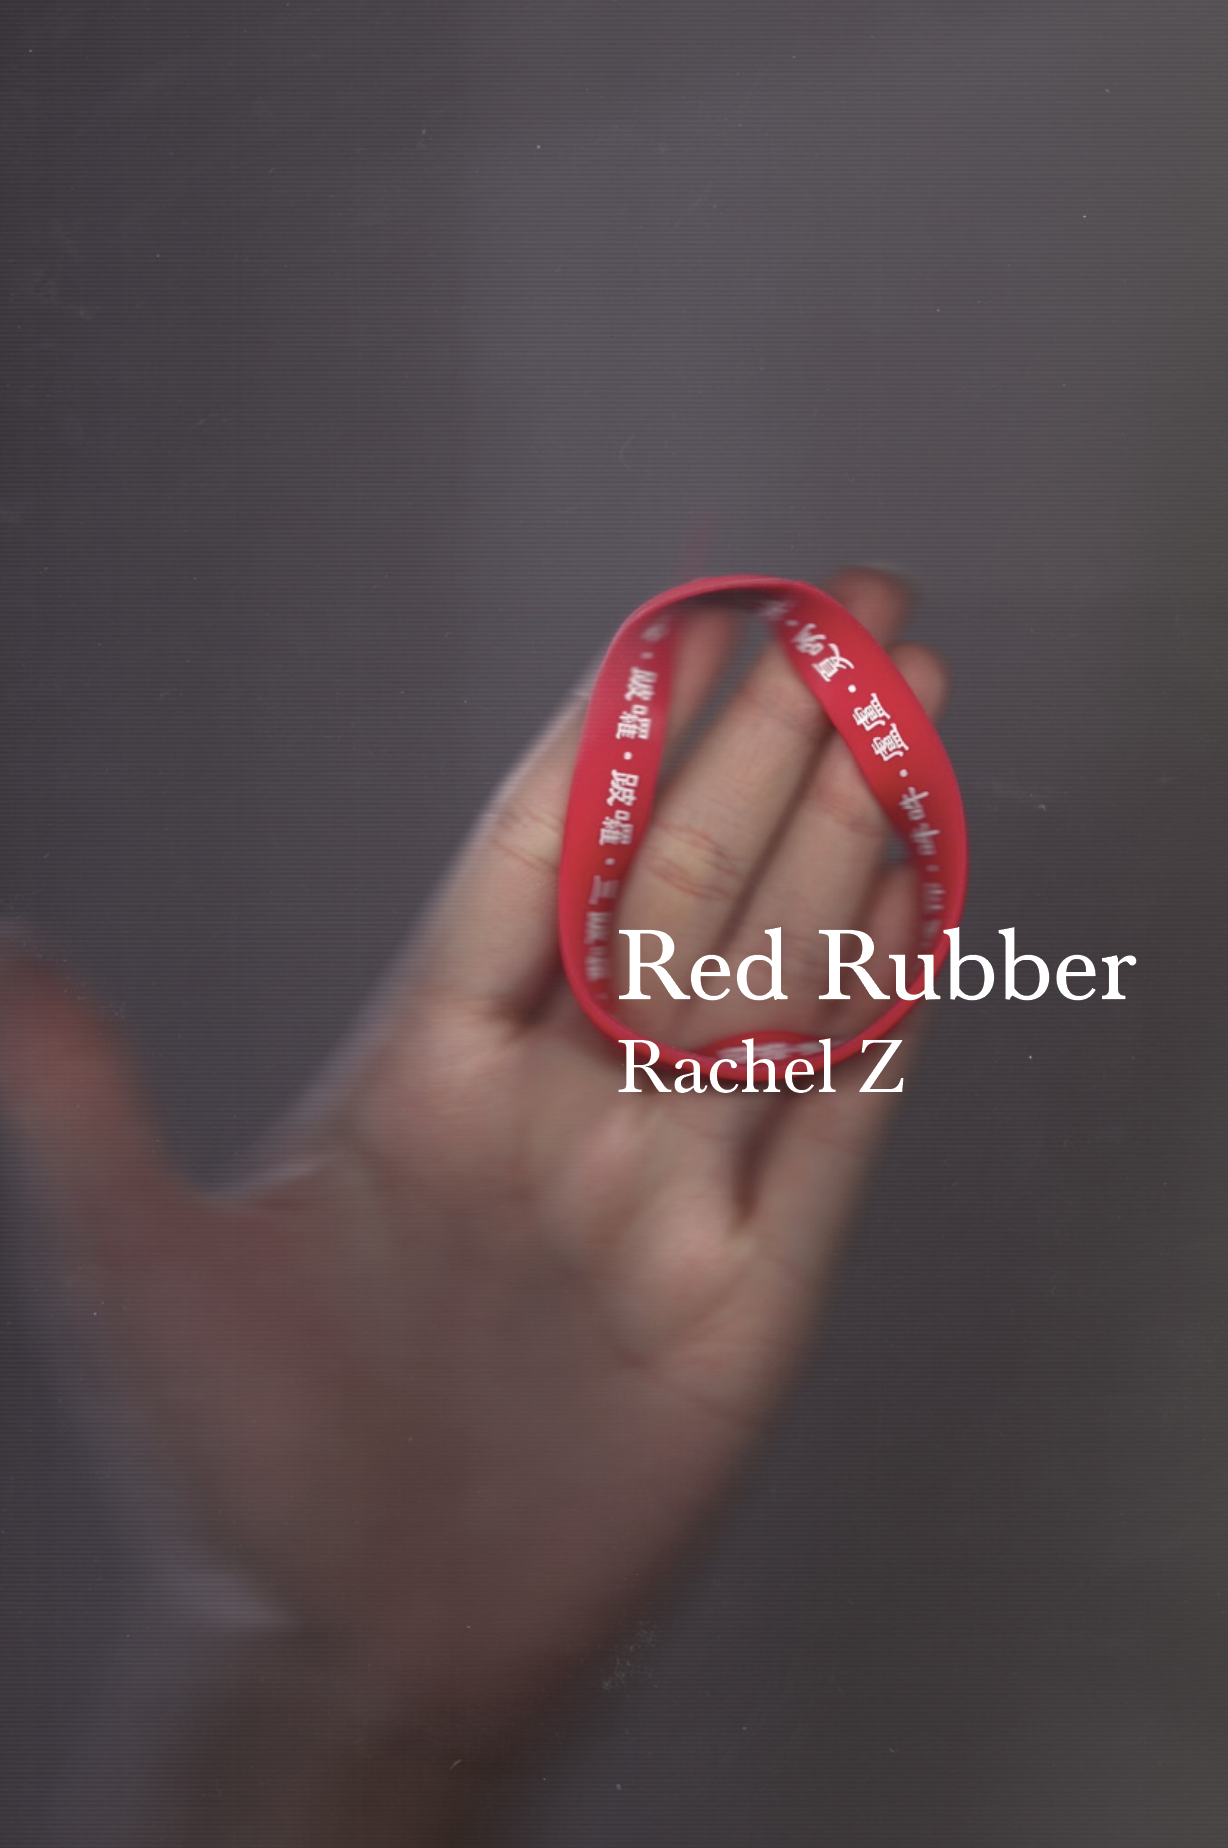
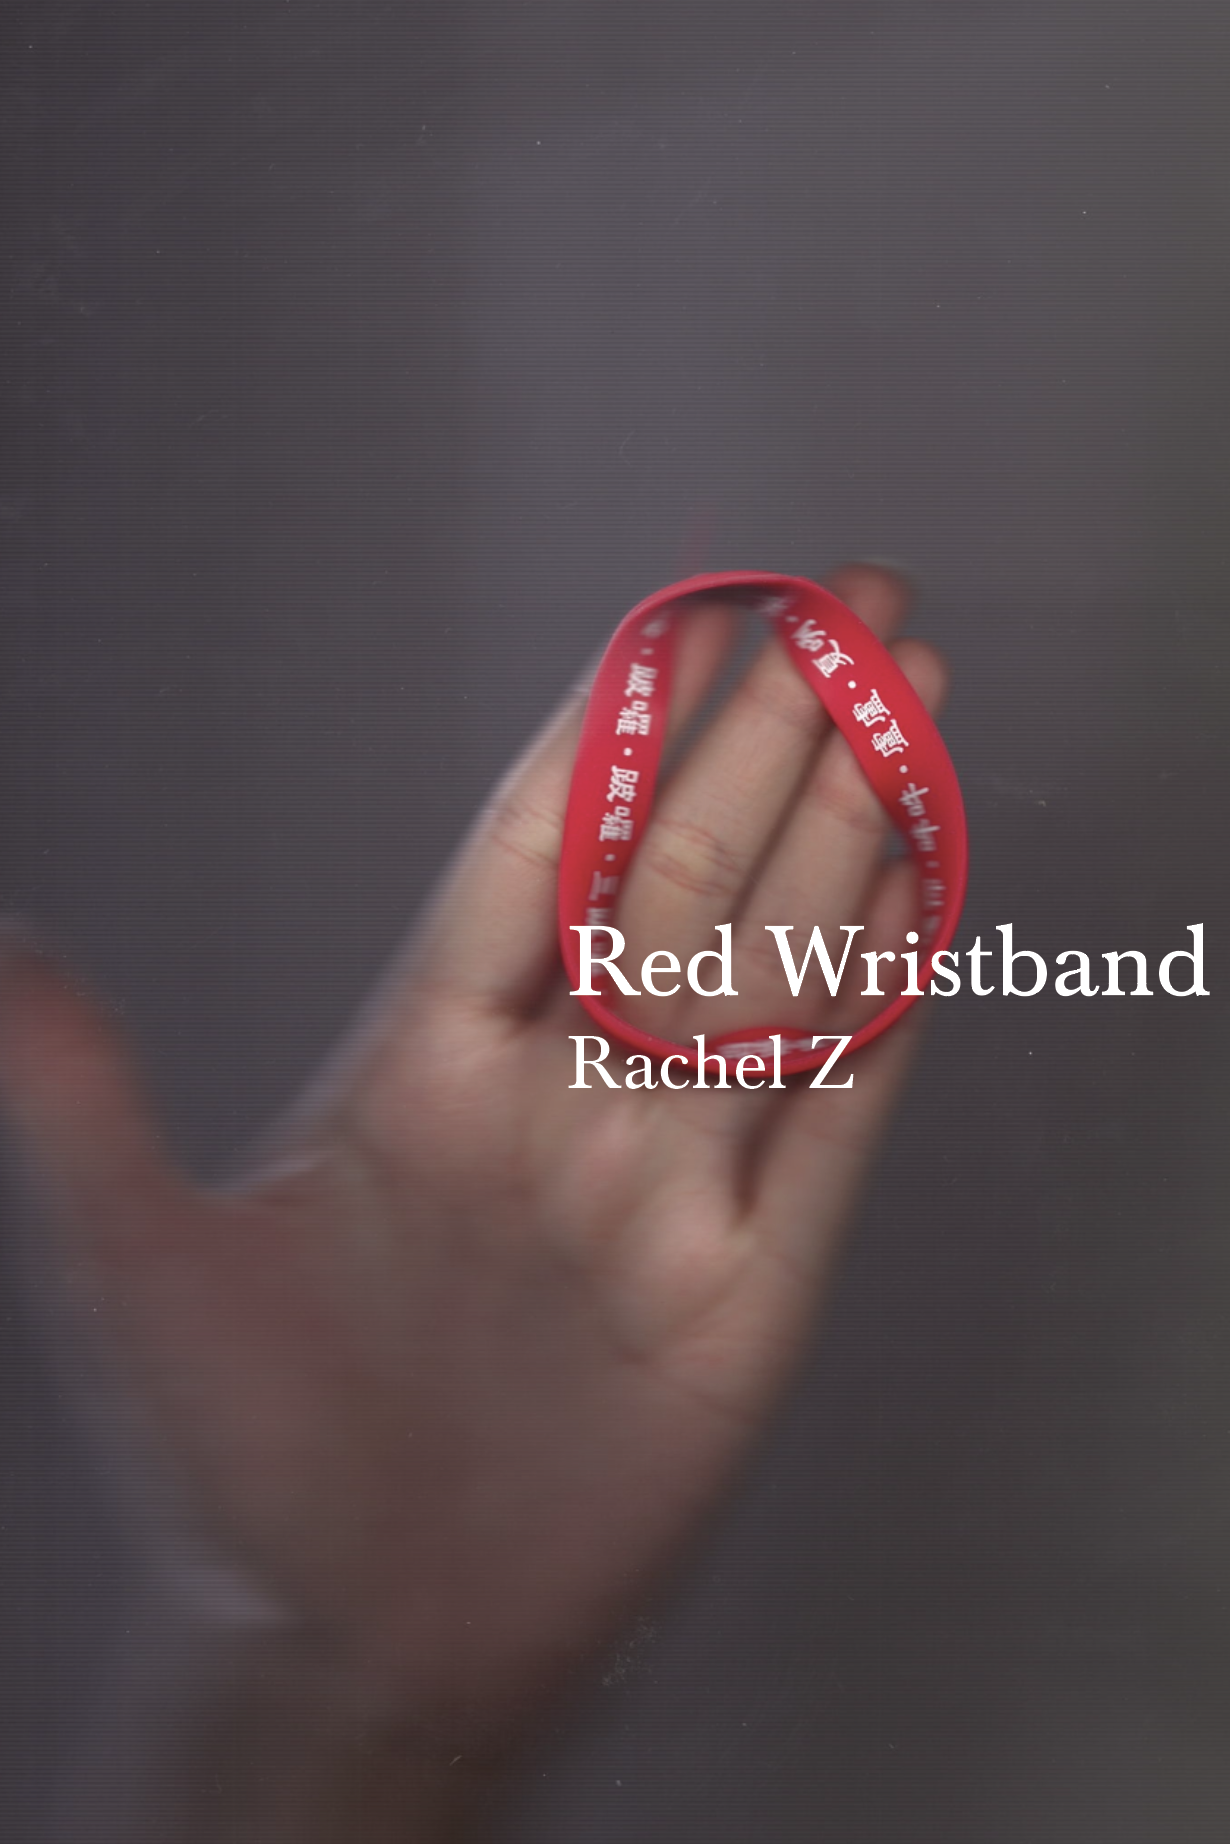
backpostcard

diff --git a/index.html b/index.html
@@ -623,163 +623,163 @@ select {
         id: 1,
         name: "Gold Bead",
         image: "Post.png",
-        backImage: "gold-bead-back.png"
+        backImage: "1.png"
       },
       {
         id: 2,
         name: "Red Rubber",
         image: "Post2.png",
-        backImage: "gold-bead-back.png"
+        backImage: "2.png"
       },
       {
         id: 3,
         name: "Polished Wooden Bead Bracelet",
         image: "Post3.png",
-        backImage: "gold-bead-back.png"
+        backImage: "3.png"
       },
       {
         id: 4,
         name: "Golden Bead Bracelet",
         image: "Post4.png",
-        backImage: "gold-bead-back.png"
+        backImage: "4.png"
       },
       {
         id: 5,
         name: "Red Twisted Cord with Gold Charm",
         image: "Post5.png",
-        backImage: "gold-bead-back.png"
+        backImage: "5.png"
       },
       {
         id: 6,
         name: "Watch",
         image: "Post6.png",
-        backImage: "gold-bead-back.png"
+        backImage: "6.png"
       },
       {
         id: 7,
         name: "Black Beaded Necklace with Carved Pendant",
         image: "Post7.png",
-        backImage: "gold-bead-back.png"
+        backImage: "7.png"
       },
       {
         id: 8,
         name: "Silver Chain",
         image: "Post8.png",
         category: "wearables",
-        backImage: "gold-bead-back.png"
+        backImage: "8.png"
       },
       {
         id: 9,
         name: "Amethyst Cathedral",
         image: "Post9.png",
-        backImage: "gold-bead-back.png"
+        backImage: "9.png"
       },
       {
         id: 10,
         name: "Framed Chinese Amber Ornament",
         image: "Post10.png",
-        backImage: "gold-bead-back.png"
+        backImage: "10.png"
       },
-      { id: 11, name: "Shell", image: "Post11.png", category: "rituals", backImage: "gold-bead-back.png" },
-      { ...fortuneNote, id: 12, category: "rituals",image: "Post12.png", backImage: "gold-bead-back.png" },
-      { ...fortuneNote, id: 13, category: "rituals",image: "Post13.png", backImage: "gold-bead-back.png" },
-      { ...fortuneNote, id: 14, category: "rituals",image: "Post14.png", backImage: "gold-bead-back.png" },
-      { ...fortuneNote, id: 15, category: "rituals",image: "Post15.png", backImage: "gold-bead-back.png" },
-      { ...fortuneNote, id: 16, category: "rituals",image: "Post16.png", backImage: "gold-bead-back.png" },
+      { id: 11, name: "Shell", image: "Post11.png", category: "rituals", backImage: "11.png" },
+      { ...fortuneNote, id: 12, category: "rituals",image: "Post12.png", backImage: "12.png" },
+      { ...fortuneNote, id: 13, category: "rituals",image: "Post13.png", backImage: "13.png" },
+      { ...fortuneNote, id: 14, category: "rituals",image: "Post14.png", backImage: "14.png" },
+      { ...fortuneNote, id: 15, category: "rituals",image: "Post15.png", backImage: "15.png" },
+      { ...fortuneNote, id: 16, category: "rituals",image: "Post16.png", backImage: "16.png" },
       {
         id: 17,
         name: "Red Pocket",
         image: "Post17.png",
         category: "paper",
-        backImage: "gold-bead-back.png"
+        backImage: "17.png"
       },
-      { ...fortuneNote, id: 18, category: "paper",image: "Post18.png", backImage: "gold-bead-back.png" },
+      { ...fortuneNote, id: 18, category: "paper",image: "Post18.png", backImage: "18.png" },
       {
         id: 19,
         name: "Yellow Talisman",
         image: "Post19.png",
         category: "paper",
-        backImage: "gold-bead-back.png"
+        backImage: "19.png"
       },
-      { ...fortuneNote, id: 20, category: "paper",image: "Post20.png", backImage: "gold-bead-back.png" },
-      { ...watchPlaceholder, id: 21, category: "paper",image: "Post21.png", backImage: "gold-bead-back.png" },
-      { ...clover, id: 22, category: "paper",image: "Post22.png", backImage: "gold-bead-back.png" },
-      { ...watchPlaceholder, id: 23, category: "paper",image: "Post23.png", backImage: "gold-bead-back.png" },
-      { ...clover, id: 24, category: "paper",image: "Post24.png", backImage: "gold-bead-back.png" },
+      { ...fortuneNote, id: 20, category: "paper",image: "Post20.png", backImage: "20.png" },
+      { ...watchPlaceholder, id: 21, category: "paper",image: "Post21.png", backImage: "21.png" },
+      { ...clover, id: 22, category: "paper",image: "Post22.png", backImage: "22.png" },
+      { ...watchPlaceholder, id: 23, category: "paper",image: "Post23.png", backImage: "23.png" },
+      { ...clover, id: 24, category: "paper",image: "Post24.png", backImage: "24.png" },
       {
         id: 25,
         name: "Eggplant Keychain",
         image: "Post25.png",
         category: "keychains",
-        backImage: "gold-bead-back.png"
+        backImage: "25.png"
       },
       {
         id: 26,
         name: "Pink Plush Bunny Keychain",
         image: "Post26.png",
         category: "keychains",
-        backImage: "gold-bead-back.png"
+        backImage: "26.png"
       },
       {
         id: 27,
         name: "Red Underwear",
         image: "Post27.png",
         category: "keychains",
-        backImage: "gold-bead-back.png"
+        backImage: "27.png"
       },
-      { ...clover, id: 28, category: "keychains", image: "Post28.png",backImage: "gold-bead-back.png" },
-      { ...watchPlaceholder, id: 29, category: "keychains", image: "Post29.png", backImage: "gold-bead-back.png" },
-      { ...clover, id: 30, category: "keychains", image: "Post30.png", backImage: "gold-bead-back.png" },
-      { ...clover, id: 31, category: "keychains", image: "Post31.png", backImage: "gold-bead-back.png" },
-      { ...clover, id: 32, category: "keychains", image: "Post32.png", backImage: "gold-bead-back.png" },
+      { ...clover, id: 28, category: "keychains", image: "Post28.png",backImage: "28.png" },
+      { ...watchPlaceholder, id: 29, category: "keychains", image: "Post29.png", backImage: "29.png" },
+      { ...clover, id: 30, category: "keychains", image: "Post30.png", backImage: "30.png" },
+      { ...clover, id: 31, category: "keychains", image: "Post31.png", backImage: "31.png" },
+      { ...clover, id: 32, category: "keychains", image: "Post32.png", backImage: "32.png" },
       {
         id: 33,
         name: "Lysol Disinfectant Spray",
         image: "Post33.png",
         category: "found",
-        backImage: "gold-bead-back.png"
+        backImage: "33.png"
       },
       {
         id: 34,
         name: "Light Aqua Blue Helmet",
         image: "Post34.png",
-        backImage: "gold-bead-back.png"
+        backImage: "34.png"
       },
       {
         id: 35,
         name: "Yellow Pencil with its Full Eraser",
         image: "Post35.png",
-        backImage: "gold-bead-back.png"
+        backImage: "35.png"
       },
       {
         id: 36,
         name: "Clover",
         image: "Post36.png",
-        backImage: "gold-bead-back.png"
+        backImage: "36.png"
       },
       {
         id: 37,
         name: "Watch Placeholder",
         image: "Post37.png",
-        backImage: "gold-bead-back.png"
+        backImage: "37.png"
       },
       {
         id: 38,
         name: "Clover",
         image: "Post38.png",
-        backImage: "gold-bead-back.png"
+        backImage: "38.png"
       },
       {
         id: 39,
         name: "Watch Placeholder",
         image: "Post39.png",
-        backImage: "gold-bead-back.png"
+        backImage: "39.png"
       },
       {
         id: 40,
         name: "Clover",
         image: "Post40.png",
-        backImage: "gold-bead-back.png"
+        backImage: "40.png"
       },
     ];
     const track = document.getElementById("track");
